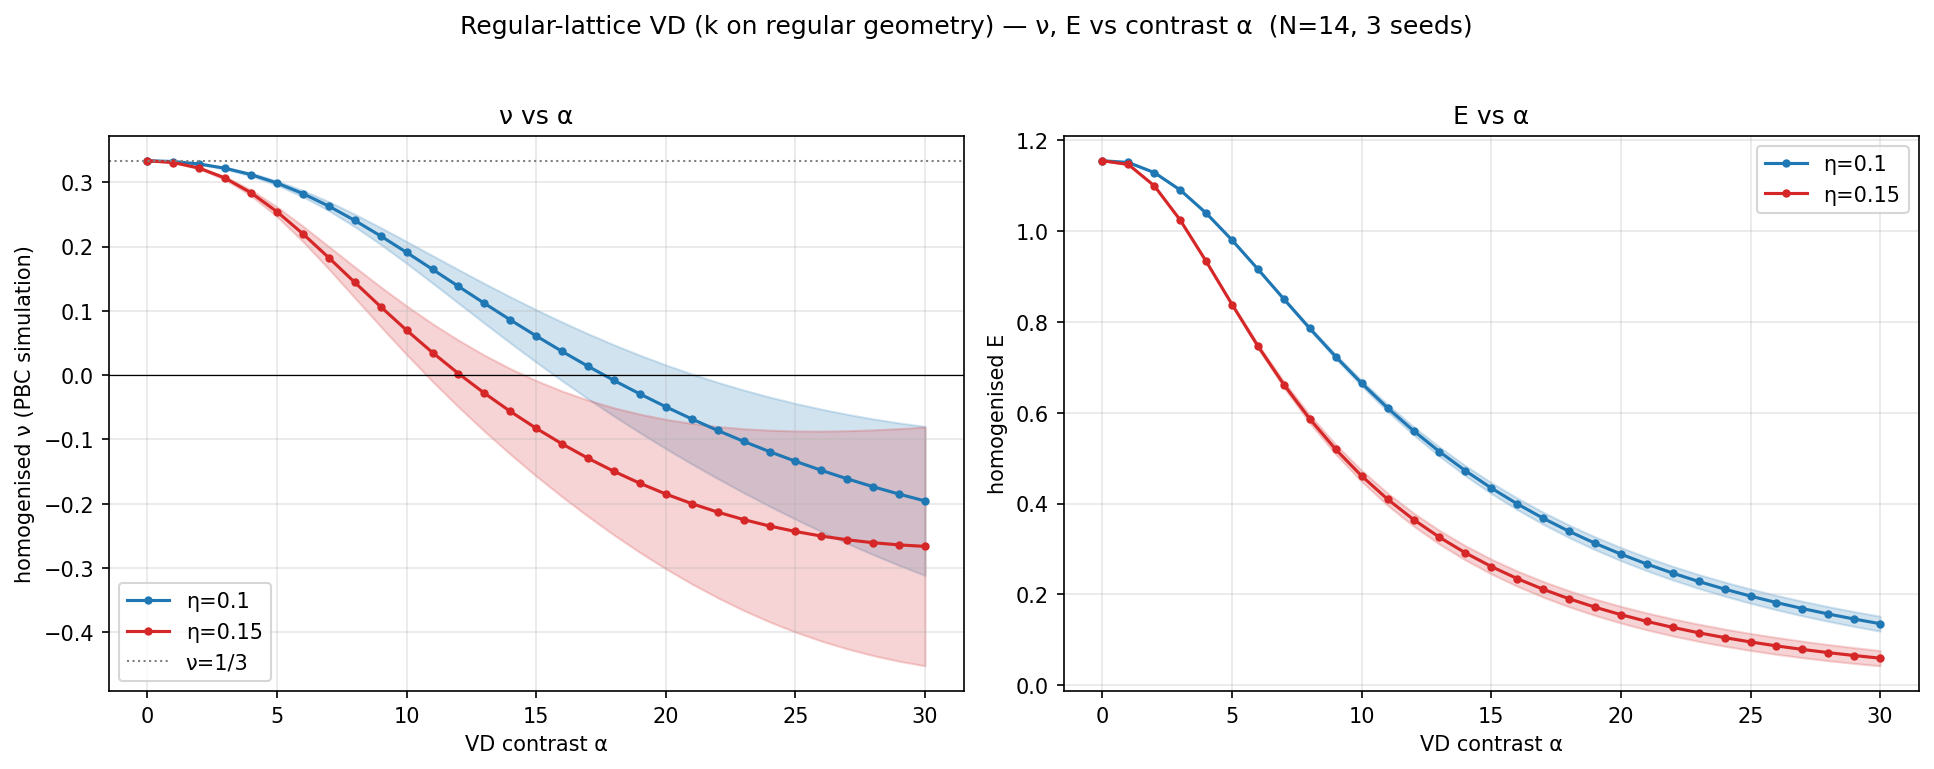
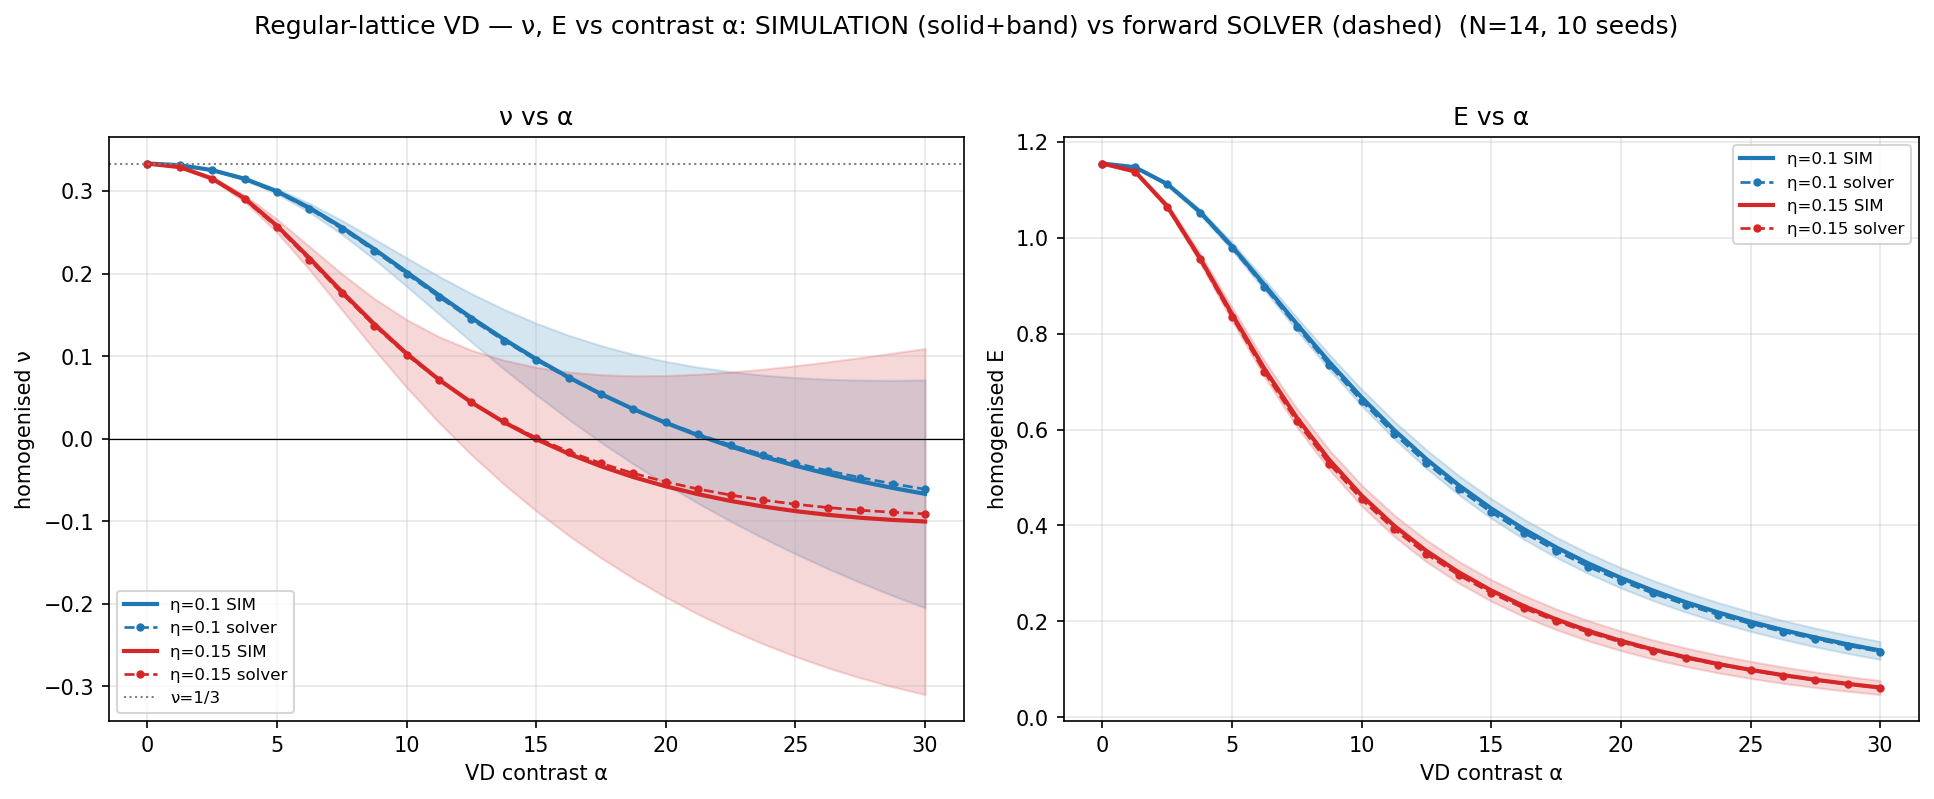
VD alpha sweep: 10 seeds + solver-vs-sim overlay
Extended the regular-lattice VD alpha scan (eta=0.1, 0.15) to 10 seeds and added the forward solver
alongside the PBC simulation. Results: the mean nu still crosses 0 into auxetic (near a~15-21) and
reaches ~-0.07 (eta=0.1) / -0.10 (eta=0.15) at a=30 -- more modest than the noisy 3-seed run
(-0.2/-0.27), with large seed variance. Solver reproduces the simulation to max|dnu|=0.006-0.009
across the whole scan (and E likewise). Updated the correction notes with the seed-averaged crossing.

diff --git a/Phase 3/verifications/vd_demo/vd_alpha_sweep.py b/Phase 3/verifications/vd_demo/vd_alpha_sweep.py
@@ -1,12 +1,16 @@
 """
 Regular-lattice VD: homogenised ν and E vs the VD contrast alpha (0..30), at fixed virtual-distortion
-eta = 0.1 and 0.15. Same construction as vd_sweep_sim (regular geometry kept, connectivity fixed, no
-re-triangulation): a virtual copy is displaced by eta*(cos,sin) per vertex, its edge lengths l set the
-rigidities k = 1 + tanh(alpha*(l - 1)) on the REAL regular lattice, and a PBC simulation gives ν, E.
-Here eta is fixed and alpha is swept (alpha->inf makes k near-binary {0,2}).
+eta = 0.1 and 0.15. Construction (regular geometry kept, connectivity fixed, no re-triangulation): a
+virtual copy is displaced by eta*(cos,sin) per vertex, its edge lengths l set the rigidities
+k = 1 + tanh(alpha*(l - 1)) on the REAL regular lattice; homogenised nu, E from BOTH:
+  - the PHYSICAL PBC SIMULATION (physical_homog.sim_nuE, energy=virial ground truth), and
+  - the FORWARD SOLVER (forward(method='intrinsic', physical_units=True)),
+averaged over several seeds. Shows the regular lattice becomes auxetic at strong contrast, and that
+the solver reproduces the simulation on this construction.
 """
 import os, sys
 import numpy as np
+import torch
 import matplotlib
 matplotlib.use('Agg')
 import matplotlib.pyplot as plt
@@ -17,49 +21,61 @@ sys.path.insert(0, os.path.join(HERE, '..', '..', '..', 'Phase 2'))
 import test_cluster_VD as VD
 import test_cluster_rigidity as TR
 import physical_homog as PH
+from test_intrinsic_VD import kkt_from_tri_bond
+from verify_solver_sweep import make_solver
+torch.set_default_dtype(torch.float64)
 
 N = 14
 ETAS = [0.10, 0.15]
-ALPHAS = np.linspace(0.0, 30.0, 31)
-SEEDS = [0, 1, 2]
+ALPHAS = np.linspace(0.0, 30.0, 25)
+SEEDS = list(range(10))
 
 
 def main():
     res = {}
     for eta in ETAS:
-        NU = np.zeros((len(ALPHAS), len(SEEDS))); EE = np.zeros_like(NU)
+        nus = np.zeros((len(ALPHAS), len(SEEDS))); Es = np.zeros_like(nus)         # simulation
+        nuo = np.zeros_like(nus); Eo = np.zeros_like(nus)                          # solver
         for j, s in enumerate(SEEDS):
-            reg = VD.build_geometry(N, 0.0, s)                 # real regular lattice (l0 = 1)
-            virt = VD.build_geometry(N, eta, s)                # virtual copy, SAME connectivity
-            Lv = np.sqrt((virt['bond_R'] ** 2).sum(1))        # virtual edge lengths
+            reg = VD.build_geometry(N, 0.0, s)                # real regular lattice (l0 = 1)
+            virt = VD.build_geometry(N, eta, s)              # virtual copy, SAME connectivity
+            Lv = np.sqrt((virt['bond_R'] ** 2).sum(1))
             free = np.arange(2, 2 * len(reg['pts']))
+            sv = make_solver(reg, kkt_from_tri_bond(reg['tri_bond'], reg['edge_vecs']))
+            rl = torch.as_tensor(np.sqrt(reg['actual_len2']))
             for i, a in enumerate(ALPHAS):
-                k = 1.0 + np.tanh(a * (Lv - 1.0))             # VD rigidity on the regular lattice
+                k = 1.0 + np.tanh(a * (Lv - 1.0))
                 g = dict(reg); g['bond_k'] = k; g['tri_k'] = k[reg['tri_bond']]
-                NU[i, j], EE[i, j] = PH.sim_nuE(g, free, TR.assemble_K_faff)
-        res[eta] = (NU, EE)
-        print(f"eta={eta}: nu(alpha=0)={NU[0].mean():+.3f}  nu(alpha=30)={NU[-1].mean():+.3f}  "
-              f"min nu={NU.mean(1).min():+.3f}", flush=True)
+                nus[i, j], Es[i, j] = PH.sim_nuE(g, free, TR.assemble_K_faff)
+                out = sv.forward(torch.as_tensor(k[reg['tri_bond']]), rest_lengths=rl,
+                                 method='intrinsic', physical_units=True)
+                nuo[i, j], Eo[i, j] = float(out['poisson']), float(out['young'])
+        res[eta] = dict(nus=nus, Es=Es, nuo=nuo, Eo=Eo)
+        dmax = np.abs(nus.mean(1) - nuo.mean(1)).max()
+        print(f"eta={eta}: sim nu(a=30)={nus[-1].mean():+.3f}  solver nu(a=30)={nuo[-1].mean():+.3f}  "
+              f"max|sim-solver| nu over alpha = {dmax:.3f}", flush=True)
     np.savez(os.path.join(HERE, 'vd_alpha_sweep.npz'), alphas=ALPHAS, etas=ETAS, seeds=SEEDS,
-             **{f'nu_{e}': res[e][0] for e in ETAS}, **{f'E_{e}': res[e][1] for e in ETAS})
+             **{f'{q}_{e}': res[e][q] for e in ETAS for q in ('nus', 'Es', 'nuo', 'Eo')})
 
-    fig, ax = plt.subplots(1, 2, figsize=(13, 5.2))
+    fig, ax = plt.subplots(1, 2, figsize=(13, 5.4))
     cols = {0.10: '#1f77b4', 0.15: '#d62728'}
     for eta in ETAS:
-        NU, EE = res[eta]
-        m, sd = NU.mean(1), NU.std(1)
-        ax[0].fill_between(ALPHAS, m - sd, m + sd, color=cols[eta], alpha=0.2)
-        ax[0].plot(ALPHAS, m, '-o', color=cols[eta], ms=3, label=f'η={eta}')
-        m, sd = EE.mean(1), EE.std(1)
-        ax[1].fill_between(ALPHAS, m - sd, m + sd, color=cols[eta], alpha=0.2)
-        ax[1].plot(ALPHAS, m, '-o', color=cols[eta], ms=3, label=f'η={eta}')
+        r = res[eta]
+        m, sd = r['nus'].mean(1), r['nus'].std(1)
+        ax[0].fill_between(ALPHAS, m - sd, m + sd, color=cols[eta], alpha=0.18)
+        ax[0].plot(ALPHAS, m, '-', color=cols[eta], lw=2, label=f'η={eta} SIM')
+        ax[0].plot(ALPHAS, r['nuo'].mean(1), '--o', color=cols[eta], ms=3, lw=1.3, label=f'η={eta} solver')
+        me, sde = r['Es'].mean(1), r['Es'].std(1)
+        ax[1].fill_between(ALPHAS, me - sde, me + sde, color=cols[eta], alpha=0.18)
+        ax[1].plot(ALPHAS, me, '-', color=cols[eta], lw=2, label=f'η={eta} SIM')
+        ax[1].plot(ALPHAS, r['Eo'].mean(1), '--o', color=cols[eta], ms=3, lw=1.3, label=f'η={eta} solver')
     ax[0].axhline(0, color='k', lw=0.6); ax[0].axhline(1 / 3, color='gray', ls=':', lw=1, label='ν=1/3')
-    ax[0].set_xlabel('VD contrast α'); ax[0].set_ylabel('homogenised ν (PBC simulation)')
-    ax[0].set_title('ν vs α'); ax[0].legend(); ax[0].grid(alpha=0.3)
+    ax[0].set_xlabel('VD contrast α'); ax[0].set_ylabel('homogenised ν'); ax[0].set_title('ν vs α')
+    ax[0].legend(fontsize=8); ax[0].grid(alpha=0.3)
     ax[1].set_xlabel('VD contrast α'); ax[1].set_ylabel('homogenised E'); ax[1].set_title('E vs α')
-    ax[1].legend(); ax[1].grid(alpha=0.3)
-    fig.suptitle(f'Regular-lattice VD (k on regular geometry) — ν, E vs contrast α  (N={N}, {len(SEEDS)} seeds)',
-                 fontsize=12)
+    ax[1].legend(fontsize=8); ax[1].grid(alpha=0.3)
+    fig.suptitle(f'Regular-lattice VD — ν, E vs contrast α: SIMULATION (solid+band) vs forward SOLVER '
+                 f'(dashed)  (N={N}, {len(SEEDS)} seeds)', fontsize=12)
     plt.tight_layout(rect=[0, 0, 1, 0.95])
     plt.savefig(os.path.join(HERE, 'vd_alpha_sweep.png'), dpi=150, bbox_inches='tight'); plt.close()
     print('saved vd_alpha_sweep.png + vd_alpha_sweep.npz')

diff --git a/Phase 3/verifications/vd_demo/vd_regular.py b/Phase 3/verifications/vd_demo/vd_regular.py
@@ -8,9 +8,10 @@ the local ν and local E.
 Outputs (kept): vd_regular.png  [VD rigidity k | local ν | local E]  and  vd_regular.npz (network).
 
 CORRECTION: at a=5 the regular-lattice VD is only mildly ν-reducing (this file, nu=+0.10) — but that
-is because a=5 is BELOW threshold. Sweeping the contrast (vd_alpha_sweep.py) shows the regular
-lattice DOES become auxetic at strong contrast (nu crosses 0 near a~12-18, reaching ~-0.2..-0.27 at
-a=30). So rigidity contrast alone on a regular lattice is auxetic given enough contrast.
+is because a=5 is BELOW threshold. Sweeping the contrast (vd_alpha_sweep.py, 10-seed mean) shows the
+regular lattice DOES become auxetic at strong contrast (nu crosses 0 near a~15-21, reaching ~-0.07
+(eta=0.1) / -0.10 (eta=0.15) at a=30; large seed variance). So rigidity contrast alone on a regular
+lattice is auxetic given enough contrast; the forward solver matches the simulation there to <0.01.
 """
 import os, sys
 import numpy as np

diff --git a/Phase 3/verifications/vd_demo/vd_decompose.py b/Phase 3/verifications/vd_demo/vd_decompose.py
@@ -12,9 +12,9 @@ regular lattice" is auxetic (rigidity alone) or whether the disordered geometry 
 
 CORRECTION: the numbers below are at a=5 ONLY (regular+VD -> +0.02), which wrongly suggested the
 disordered geometry is REQUIRED. It is NOT — a=5 is simply below threshold. Sweeping the contrast
-(vd_alpha_sweep.py) shows regular+VD becomes auxetic at strong contrast (nu<0 for a>~12-18). So
-rigidity contrast alone on a regular lattice IS auxetic given enough contrast; the disordered
-geometry only lowers the contrast threshold.
+(vd_alpha_sweep.py, 10-seed mean) shows regular+VD becomes auxetic at strong contrast (nu<0 for
+a>~15-21). So rigidity contrast alone on a regular lattice IS auxetic given enough contrast; the
+disordered geometry only lowers the contrast threshold.
 """
 import os, sys
 import numpy as np
